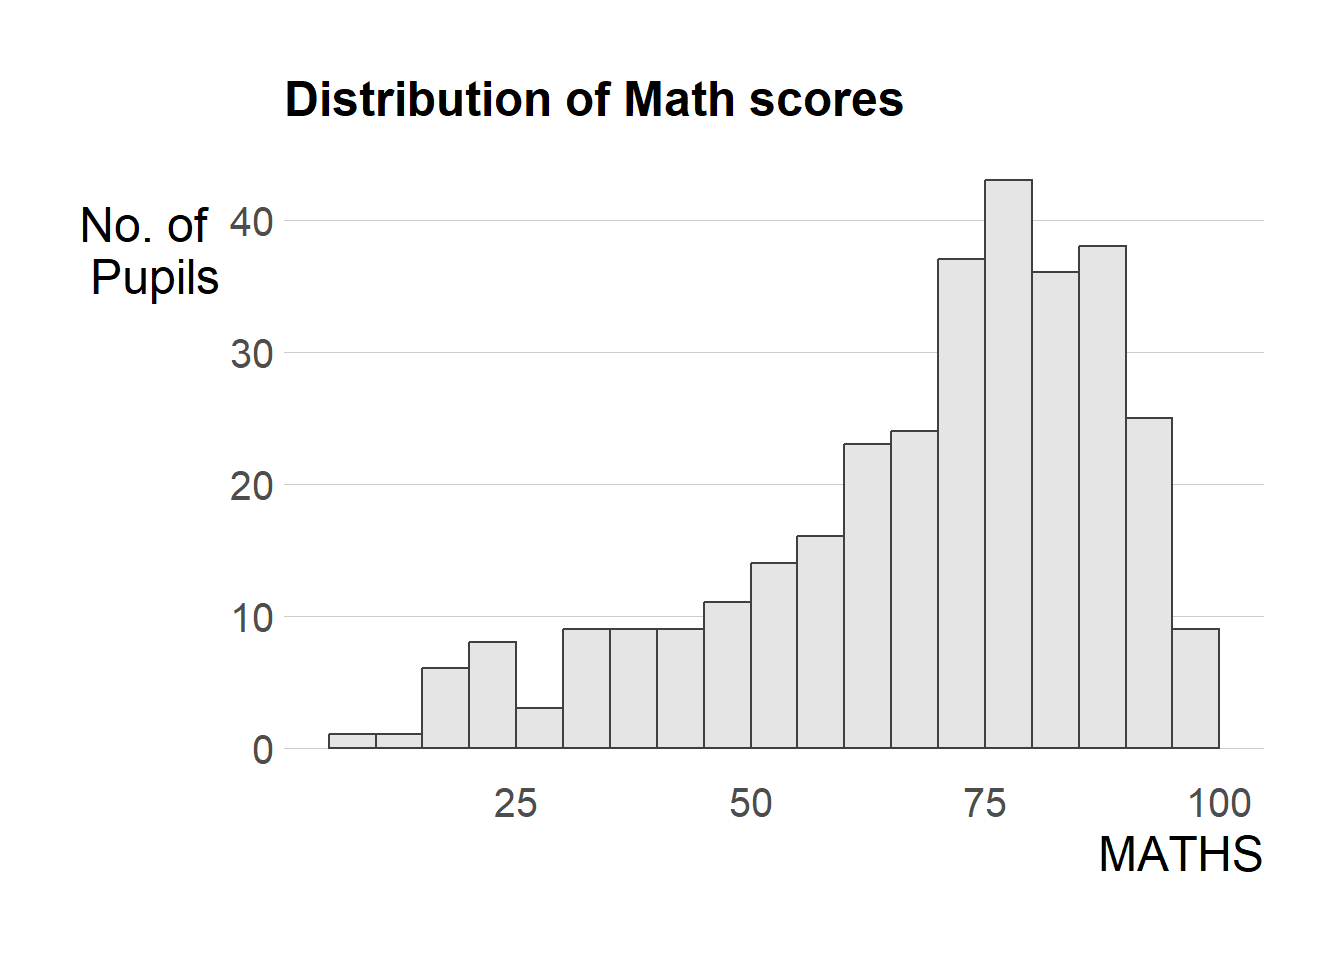
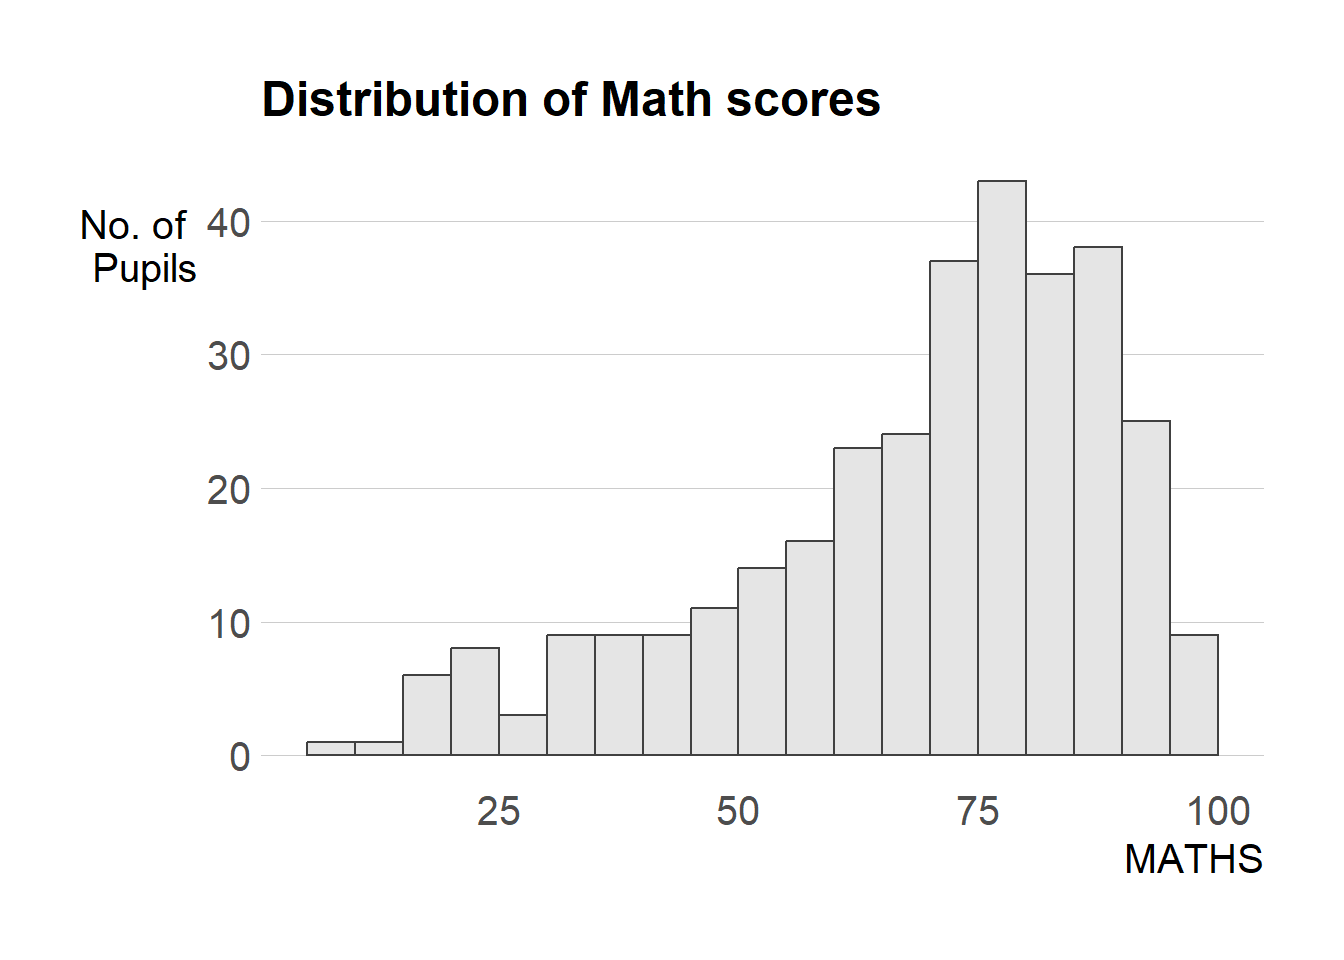
task 2.5.1 using patchwork

diff --git a/_site/Hands-on_Ex/Hands-on_Ex02/Hands-on_Ex02.html b/_site/Hands-on_Ex/Hands-on_Ex02/Hands-on_Ex02.html
@@ -467,7 +467,7 @@ code span.wa { color: #60a0b0; font-weight: bold; font-style: italic; } /* Warni
 <span id="cb8-4"><a href="#cb8-4" aria-hidden="true" tabindex="-1"></a>                 <span class="at">boundary=</span><span class="dv">100</span>,</span>
 <span id="cb8-5"><a href="#cb8-5" aria-hidden="true" tabindex="-1"></a>                 <span class="at">color=</span><span class="st">'grey25'</span>,</span>
 <span id="cb8-6"><a href="#cb8-6" aria-hidden="true" tabindex="-1"></a>                 <span class="at">fill=</span><span class="st">'grey90'</span>) <span class="sc">+</span></span>
-<span id="cb8-7"><a href="#cb8-7" aria-hidden="true" tabindex="-1"></a>  <span class="fu">theme_ipsum</span>(<span class="at">axis_title_size =</span> <span class="dv">18</span>,</span>
+<span id="cb8-7"><a href="#cb8-7" aria-hidden="true" tabindex="-1"></a>  <span class="fu">theme_ipsum</span>(<span class="at">axis_title_size =</span> <span class="dv">15</span>,</span>
 <span id="cb8-8"><a href="#cb8-8" aria-hidden="true" tabindex="-1"></a>              <span class="at">base_size=</span><span class="dv">15</span>,</span>
 <span id="cb8-9"><a href="#cb8-9" aria-hidden="true" tabindex="-1"></a>              <span class="at">grid=</span> <span class="st">'Y'</span>) <span class="sc">+</span></span>
 <span id="cb8-10"><a href="#cb8-10" aria-hidden="true" tabindex="-1"></a> <span class="fu">labs</span>(<span class="at">y=</span> <span class="st">'No. of </span><span class="sc">\n</span><span class="st">Pupils'</span>) <span class="sc">+</span></span>
@@ -499,18 +499,34 @@ What can we learn from the code chunk above?
 </section>
 <section id="beyond-single-graph" class="level2">
 <h2 class="anchored" data-anchor-id="beyond-single-graph">2.5 Beyond Single Graph</h2>
-<p>It is not unusual that multiple graphs are required to tell a compelling visual story. There are several ggplot2 extensions provide functions to compose figure with multiple graphs. In this section, you will learn how to create composite plot by combining multiple graphs. First, let us create three statistical graphics by using the code chunk below.</p>
+<p>It is not unusual that multiple graphs are required to tell a compelling visual story. There are several ggplot2 extensions provide functions to compose figure with multiple graphs. In this section, I will create composite plot by combining multiple graphs. First, create three statistical graphics by using the code chunk below.</p>
 <div class="panel-tabset">
 <ul class="nav nav-tabs" role="tablist"><li class="nav-item" role="presentation"><a class="nav-link active" id="tabset-7-1-tab" data-bs-toggle="tab" data-bs-target="#tabset-7-1" role="tab" aria-controls="tabset-7-1" aria-selected="true">The plot</a></li><li class="nav-item" role="presentation"><a class="nav-link" id="tabset-7-2-tab" data-bs-toggle="tab" data-bs-target="#tabset-7-2" role="tab" aria-controls="tabset-7-2" aria-selected="false">The code</a></li></ul>
 <div class="tab-content">
 <div id="tabset-7-1" class="tab-pane active" role="tabpanel" aria-labelledby="tabset-7-1-tab">
 <div class="cell">
-
+<div class="cell-output-display">
+<p><img src="Hands-on_Ex02_files/figure-html/unnamed-chunk-15-1.png" class="img-fluid" width="672"></p>
+</div>
 </div>
 </div>
 <div id="tabset-7-2" class="tab-pane" role="tabpanel" aria-labelledby="tabset-7-2-tab">
 <div class="cell">
-
+<div class="sourceCode cell-code" id="cb9"><pre class="sourceCode r code-with-copy"><code class="sourceCode r"><span id="cb9-1"><a href="#cb9-1" aria-hidden="true" tabindex="-1"></a>p1 <span class="ot">&lt;-</span> <span class="fu">ggplot</span>(<span class="at">data=</span>exam_data, </span>
+<span id="cb9-2"><a href="#cb9-2" aria-hidden="true" tabindex="-1"></a>       <span class="fu">aes</span>(<span class="at">x=</span>MATHS)) <span class="sc">+</span></span>
+<span id="cb9-3"><a href="#cb9-3" aria-hidden="true" tabindex="-1"></a>  <span class="fu">geom_histogram</span>(<span class="at">binwidth=</span><span class="dv">5</span>,</span>
+<span id="cb9-4"><a href="#cb9-4" aria-hidden="true" tabindex="-1"></a>                 <span class="at">boundary=</span><span class="dv">100</span>,</span>
+<span id="cb9-5"><a href="#cb9-5" aria-hidden="true" tabindex="-1"></a>                 <span class="at">color=</span><span class="st">'grey25'</span>,</span>
+<span id="cb9-6"><a href="#cb9-6" aria-hidden="true" tabindex="-1"></a>                 <span class="at">fill=</span><span class="st">'grey90'</span>) <span class="sc">+</span></span>
+<span id="cb9-7"><a href="#cb9-7" aria-hidden="true" tabindex="-1"></a>  <span class="fu">coord_cartesian</span>(<span class="at">xlim=</span><span class="fu">c</span>(<span class="dv">0</span>,<span class="dv">100</span>)) <span class="sc">+</span></span>
+<span id="cb9-8"><a href="#cb9-8" aria-hidden="true" tabindex="-1"></a>  <span class="fu">theme_ipsum</span>(<span class="at">axis_title_size =</span> <span class="dv">10</span>,</span>
+<span id="cb9-9"><a href="#cb9-9" aria-hidden="true" tabindex="-1"></a>              <span class="at">base_size=</span><span class="dv">10</span>,</span>
+<span id="cb9-10"><a href="#cb9-10" aria-hidden="true" tabindex="-1"></a>              <span class="at">grid=</span> <span class="st">'Y'</span>) <span class="sc">+</span></span>
+<span id="cb9-11"><a href="#cb9-11" aria-hidden="true" tabindex="-1"></a> <span class="fu">labs</span>(<span class="at">y=</span> <span class="st">'No. of </span><span class="sc">\n</span><span class="st">Pupils'</span>) <span class="sc">+</span></span>
+<span id="cb9-12"><a href="#cb9-12" aria-hidden="true" tabindex="-1"></a> <span class="fu">theme</span>(<span class="at">axis.title.y=</span><span class="fu">element_text</span>(<span class="at">angle =</span> <span class="dv">0</span>,</span>
+<span id="cb9-13"><a href="#cb9-13" aria-hidden="true" tabindex="-1"></a>                                  <span class="at">vjust=</span><span class="fl">0.9</span>),</span>
+<span id="cb9-14"><a href="#cb9-14" aria-hidden="true" tabindex="-1"></a>       <span class="at">plot.title=</span><span class="fu">element_text</span>(<span class="at">size =</span><span class="dv">10</span>)) <span class="sc">+</span></span>
+<span id="cb9-15"><a href="#cb9-15" aria-hidden="true" tabindex="-1"></a>  <span class="fu">ggtitle</span>(<span class="st">'Distribution of Math scores'</span>)</span></code><button title="Copy to Clipboard" class="code-copy-button"><i class="bi"></i></button></pre></div>
 </div>
 </div>
 </div>
@@ -521,28 +537,59 @@ What can we learn from the code chunk above?
 <div class="tab-content">
 <div id="tabset-8-1" class="tab-pane active" role="tabpanel" aria-labelledby="tabset-8-1-tab">
 <div class="cell">
-
+<div class="cell-output-display">
+<p><img src="Hands-on_Ex02_files/figure-html/unnamed-chunk-17-1.png" class="img-fluid" width="672"></p>
+</div>
 </div>
 </div>
 <div id="tabset-8-2" class="tab-pane" role="tabpanel" aria-labelledby="tabset-8-2-tab">
 <div class="cell">
-
+<div class="sourceCode cell-code" id="cb10"><pre class="sourceCode r code-with-copy"><code class="sourceCode r"><span id="cb10-1"><a href="#cb10-1" aria-hidden="true" tabindex="-1"></a>p2 <span class="ot">&lt;-</span> <span class="fu">ggplot</span>(<span class="at">data=</span>exam_data, </span>
+<span id="cb10-2"><a href="#cb10-2" aria-hidden="true" tabindex="-1"></a>       <span class="fu">aes</span>(<span class="at">x=</span>ENGLISH)) <span class="sc">+</span></span>
+<span id="cb10-3"><a href="#cb10-3" aria-hidden="true" tabindex="-1"></a>  <span class="fu">geom_histogram</span>(<span class="at">binwidth=</span><span class="dv">5</span>,</span>
+<span id="cb10-4"><a href="#cb10-4" aria-hidden="true" tabindex="-1"></a>                 <span class="at">boundary=</span><span class="dv">100</span>,</span>
+<span id="cb10-5"><a href="#cb10-5" aria-hidden="true" tabindex="-1"></a>                 <span class="at">color=</span><span class="st">'grey25'</span>,</span>
+<span id="cb10-6"><a href="#cb10-6" aria-hidden="true" tabindex="-1"></a>                 <span class="at">fill=</span><span class="st">'grey90'</span>) <span class="sc">+</span></span>
+<span id="cb10-7"><a href="#cb10-7" aria-hidden="true" tabindex="-1"></a>  <span class="fu">coord_cartesian</span>(<span class="at">xlim=</span><span class="fu">c</span>(<span class="dv">0</span>,<span class="dv">100</span>)) <span class="sc">+</span></span>
+<span id="cb10-8"><a href="#cb10-8" aria-hidden="true" tabindex="-1"></a>  <span class="fu">theme_ipsum</span>(<span class="at">axis_title_size =</span> <span class="dv">10</span>,</span>
+<span id="cb10-9"><a href="#cb10-9" aria-hidden="true" tabindex="-1"></a>              <span class="at">base_size=</span><span class="dv">10</span>,</span>
+<span id="cb10-10"><a href="#cb10-10" aria-hidden="true" tabindex="-1"></a>              <span class="at">grid=</span> <span class="st">'Y'</span>) <span class="sc">+</span></span>
+<span id="cb10-11"><a href="#cb10-11" aria-hidden="true" tabindex="-1"></a> <span class="fu">labs</span>(<span class="at">y=</span> <span class="st">'No. of </span><span class="sc">\n</span><span class="st">Pupils'</span>) <span class="sc">+</span></span>
+<span id="cb10-12"><a href="#cb10-12" aria-hidden="true" tabindex="-1"></a> <span class="fu">theme</span>(<span class="at">axis.title.y=</span><span class="fu">element_text</span>(<span class="at">angle =</span> <span class="dv">0</span>,</span>
+<span id="cb10-13"><a href="#cb10-13" aria-hidden="true" tabindex="-1"></a>                                  <span class="at">vjust=</span><span class="fl">0.9</span>),</span>
+<span id="cb10-14"><a href="#cb10-14" aria-hidden="true" tabindex="-1"></a>       <span class="at">plot.title=</span><span class="fu">element_text</span>(<span class="at">size =</span><span class="dv">10</span>)) <span class="sc">+</span></span>
+<span id="cb10-15"><a href="#cb10-15" aria-hidden="true" tabindex="-1"></a>  <span class="fu">ggtitle</span>(<span class="st">'Distribution of English scores'</span>)</span></code><button title="Copy to Clipboard" class="code-copy-button"><i class="bi"></i></button></pre></div>
 </div>
 </div>
 </div>
 </div>
-<p>Lastly, we will draw a scatterplot for English score versus Maths score by as shown below</p>
+<p>Lastly, draw a scatterplot for English score versus Maths score by as shown below</p>
 <div class="panel-tabset">
 <ul class="nav nav-tabs" role="tablist"><li class="nav-item" role="presentation"><a class="nav-link active" id="tabset-9-1-tab" data-bs-toggle="tab" data-bs-target="#tabset-9-1" role="tab" aria-controls="tabset-9-1" aria-selected="true">The plot</a></li><li class="nav-item" role="presentation"><a class="nav-link" id="tabset-9-2-tab" data-bs-toggle="tab" data-bs-target="#tabset-9-2" role="tab" aria-controls="tabset-9-2" aria-selected="false">The code</a></li></ul>
 <div class="tab-content">
 <div id="tabset-9-1" class="tab-pane active" role="tabpanel" aria-labelledby="tabset-9-1-tab">
 <div class="cell">
-
+<div class="cell-output-display">
+<p><img src="Hands-on_Ex02_files/figure-html/unnamed-chunk-19-1.png" class="img-fluid" width="672"></p>
+</div>
 </div>
 </div>
 <div id="tabset-9-2" class="tab-pane" role="tabpanel" aria-labelledby="tabset-9-2-tab">
 <div class="cell">
-
+<div class="sourceCode cell-code" id="cb11"><pre class="sourceCode r code-with-copy"><code class="sourceCode r"><span id="cb11-1"><a href="#cb11-1" aria-hidden="true" tabindex="-1"></a>p3 <span class="ot">&lt;-</span><span class="fu">ggplot</span>(<span class="at">data=</span>exam_data, </span>
+<span id="cb11-2"><a href="#cb11-2" aria-hidden="true" tabindex="-1"></a>       <span class="fu">aes</span>(<span class="at">x=</span>MATHS, <span class="at">y=</span>ENGLISH)) <span class="sc">+</span></span>
+<span id="cb11-3"><a href="#cb11-3" aria-hidden="true" tabindex="-1"></a>  <span class="fu">geom_point</span>() <span class="sc">+</span></span>
+<span id="cb11-4"><a href="#cb11-4" aria-hidden="true" tabindex="-1"></a>  <span class="fu">geom_smooth</span>(<span class="at">method=</span>lm, </span>
+<span id="cb11-5"><a href="#cb11-5" aria-hidden="true" tabindex="-1"></a>              <span class="at">size =</span> <span class="fl">0.5</span> )<span class="sc">+</span></span>
+<span id="cb11-6"><a href="#cb11-6" aria-hidden="true" tabindex="-1"></a>  <span class="fu">coord_cartesian</span>(<span class="at">xlim=</span><span class="fu">c</span>(<span class="dv">0</span>,<span class="dv">100</span>),</span>
+<span id="cb11-7"><a href="#cb11-7" aria-hidden="true" tabindex="-1"></a>                  <span class="at">ylim=</span><span class="fu">c</span>(<span class="dv">0</span>,<span class="dv">100</span>)) <span class="sc">+</span></span>
+<span id="cb11-8"><a href="#cb11-8" aria-hidden="true" tabindex="-1"></a>  <span class="fu">theme_ipsum</span>(<span class="at">axis_title_size =</span> <span class="dv">10</span>,</span>
+<span id="cb11-9"><a href="#cb11-9" aria-hidden="true" tabindex="-1"></a>              <span class="at">base_size=</span><span class="dv">10</span>) <span class="sc">+</span></span>
+<span id="cb11-10"><a href="#cb11-10" aria-hidden="true" tabindex="-1"></a> <span class="fu">labs</span>(<span class="at">y=</span> <span class="st">'EL score'</span>, <span class="at">x=</span> <span class="st">'Math score'</span>) <span class="sc">+</span></span>
+<span id="cb11-11"><a href="#cb11-11" aria-hidden="true" tabindex="-1"></a> <span class="fu">theme</span>(<span class="at">axis.title.y=</span><span class="fu">element_text</span>(<span class="at">angle =</span> <span class="dv">0</span>,</span>
+<span id="cb11-12"><a href="#cb11-12" aria-hidden="true" tabindex="-1"></a>                                  <span class="at">vjust=</span><span class="fl">0.9</span>),</span>
+<span id="cb11-13"><a href="#cb11-13" aria-hidden="true" tabindex="-1"></a>       <span class="at">plot.title=</span><span class="fu">element_text</span>(<span class="at">size =</span><span class="dv">15</span>)) <span class="sc">+</span></span>
+<span id="cb11-14"><a href="#cb11-14" aria-hidden="true" tabindex="-1"></a>  <span class="fu">ggtitle</span>(<span class="st">'English scores vesus Math scores for Primary 3'</span>)</span></code><button title="Copy to Clipboard" class="code-copy-button"><i class="bi"></i></button></pre></div>
 </div>
 </div>
 </div>
@@ -565,7 +612,9 @@ What can we learn from the code chunk above?
 <div class="tab-content">
 <div id="tabset-10-1" class="tab-pane active" role="tabpanel" aria-labelledby="tabset-10-1-tab">
 <div class="cell">
-
+<div class="cell-output-display">
+<p><img src="Hands-on_Ex02_files/figure-html/unnamed-chunk-21-1.png" class="img-fluid" width="672"></p>
+</div>
 </div>
 </div>
 <div id="tabset-10-2" class="tab-pane" role="tabpanel" aria-labelledby="tabset-10-2-tab">
